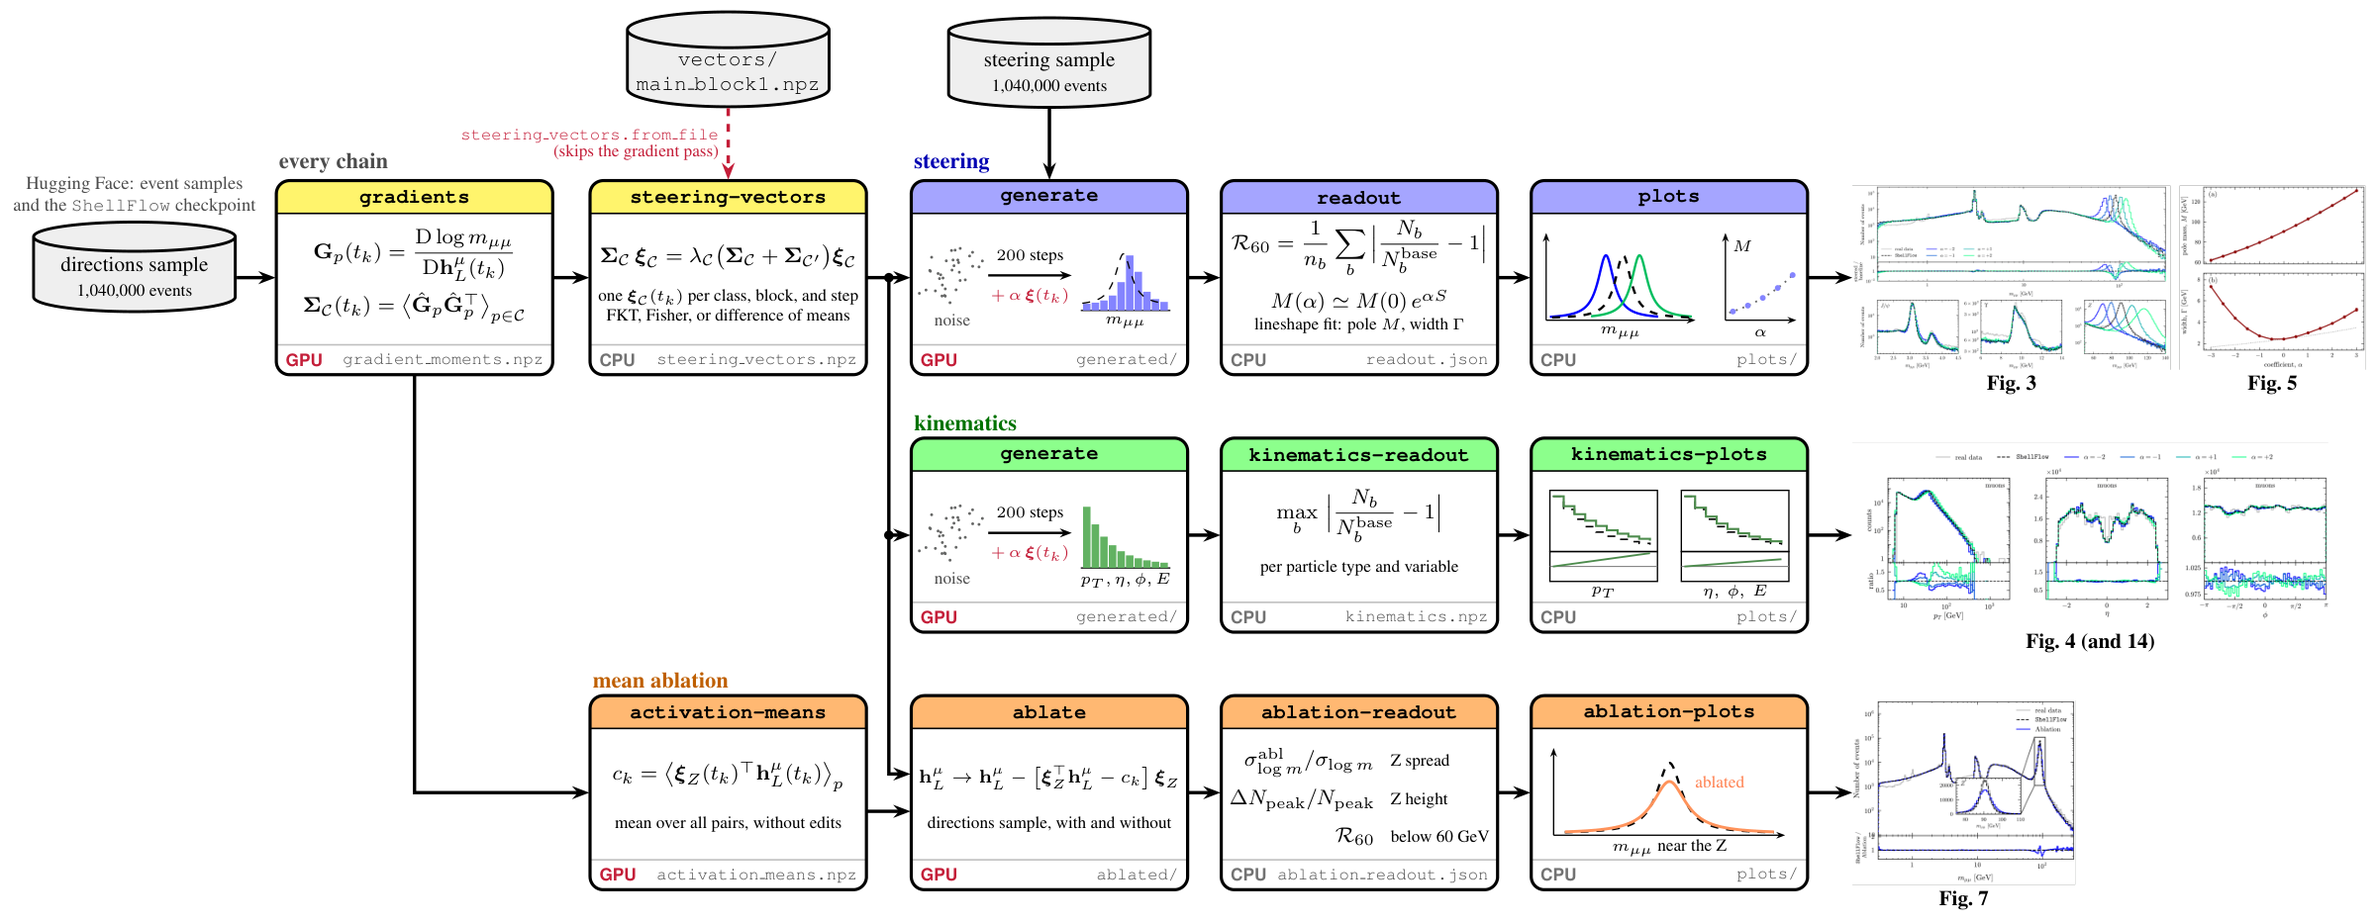
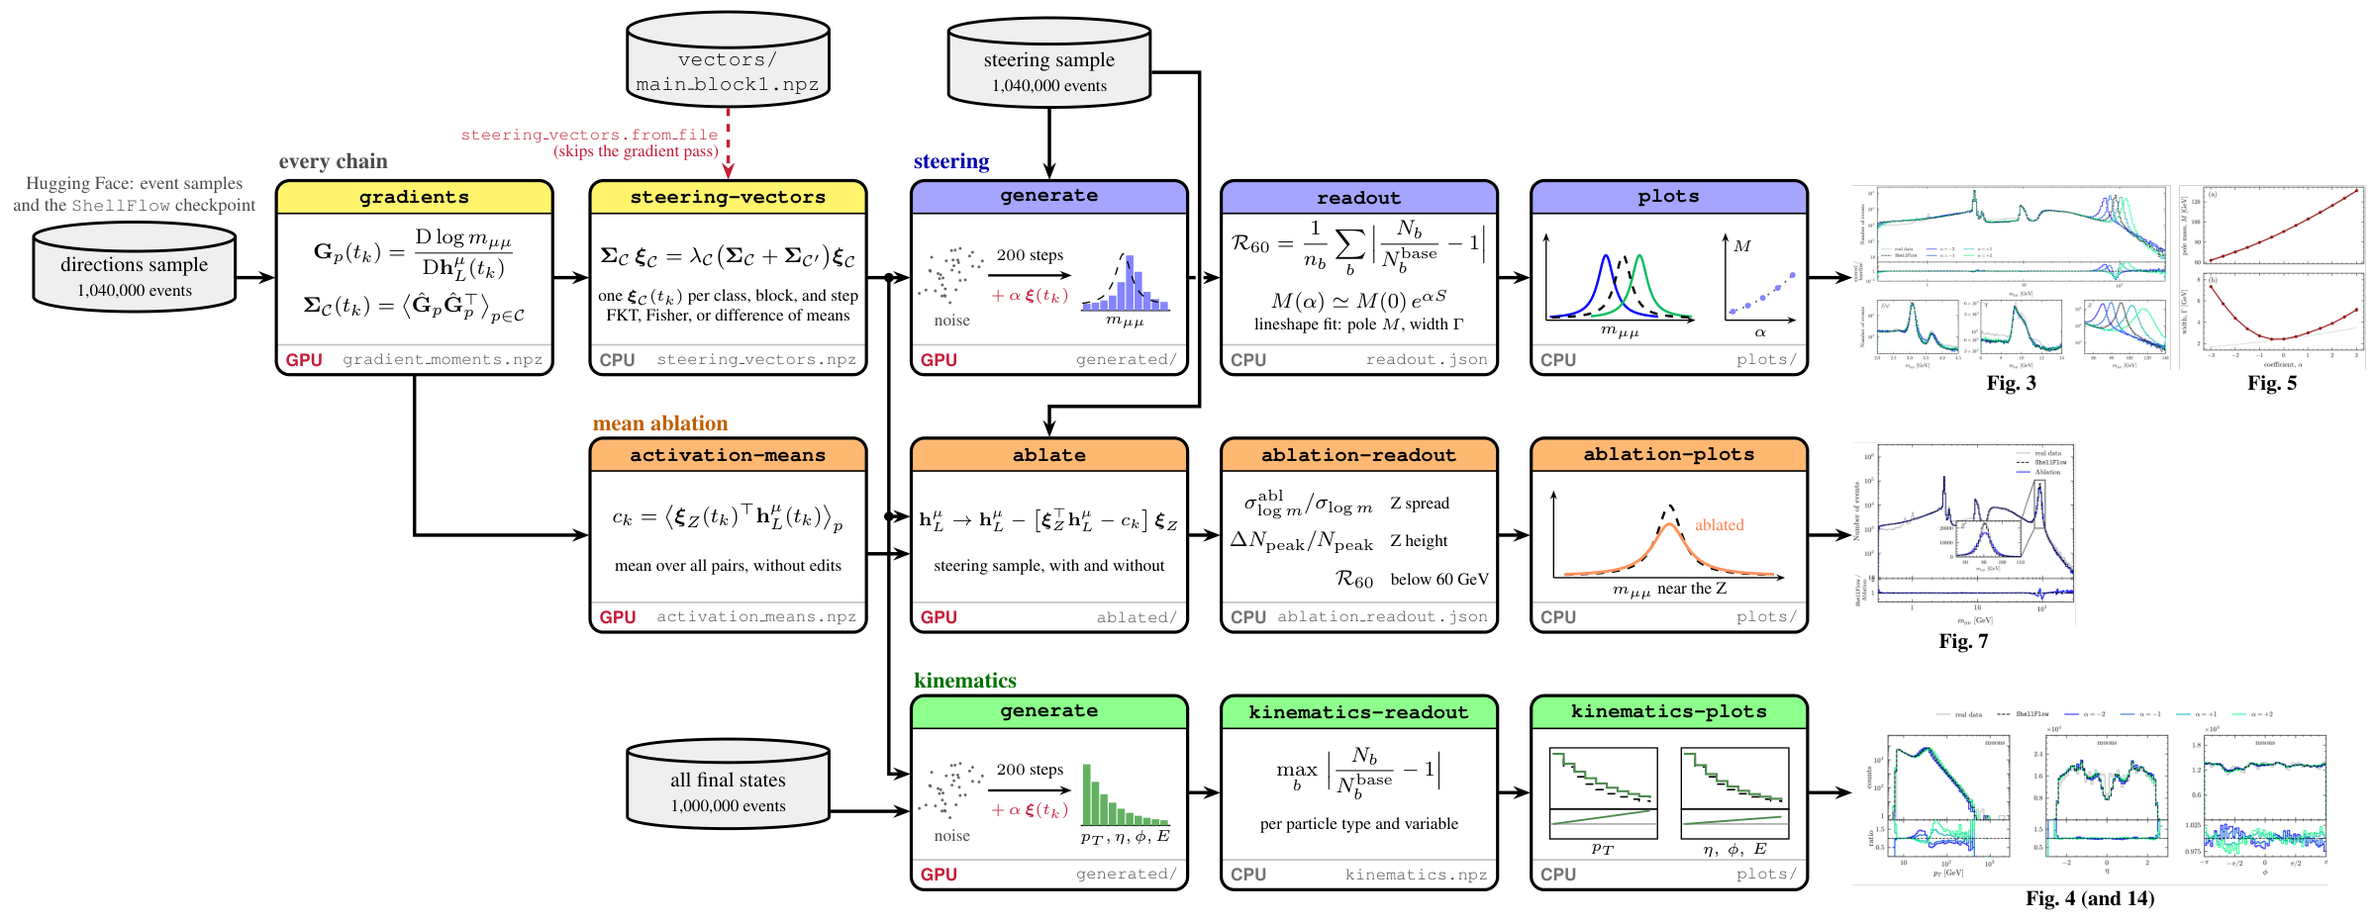
Mean ablation on the steering sample (#105)
steer ablate, ablation-readout, and ablation-plots now run on the steering sample, with the
kept pairs from the baseline of the first seed (ablated/kept.npz); xi_Z and c_k stay on the
directions sample. The option ablation.sample is dropped; ablation_z.yaml uses seeds
2041-2043. README (R_60 = 0.012), comments, and the pipeline figure follow.

diff --git a/src/shellsteer/cli.py b/src/shellsteer/cli.py
@@ -2,15 +2,17 @@
 
 A config runs one of three chains of stages (STAGES, `Config.chain`): the steering run (Sec. 5); the kinematics run
 (Figs. 4 and 14), whose steering sample holds events of every final state; or, with an `ablation` section, the mean
-ablation (Sec. 5.3). A run writes to <runs>/<config name>/ (README, "Run the full chain"). Each stage reads only the
-files of the stages it needs and stops, naming the missing file and the stage that writes it, if one is absent. A
-stage refuses to replace its own output unless --overwrite is given, and refuses to run on outputs that were made
-with other settings. The resolved config, overrides applied, goes to config.yaml in the run folder; the log to stdout.
+ablation (Sec. 5.3) of the steering sample, with xi and c_k (Eq. 25) from the directions sample. A run writes to
+<runs>/<config name>/ (README, "Run the full chain"). Each stage reads only the files of the stages it needs and
+stops, naming the missing file and the stage that writes it, if one is absent. A stage refuses to replace its own
+output unless --overwrite is given, and refuses to run on outputs that were made with other settings. The resolved
+config, overrides applied, goes to config.yaml in the run folder; the log to stdout.
 
 With steering_vectors.from_file, the vectors come from a file of an earlier `steer steering-vectors` (stages_of):
 `steer steering-vectors` checks the file against the config and copies it into the run folder, the steering and
-kinematics runs have no gradients stage, and in the ablation run `steer gradients` makes only the baseline and the kept pairs of the
-directions sample, which c_k needs. S (Eq. 21) then comes from the file, or the readout reports it as unavailable.
+kinematics runs have no gradients stage, and in the ablation run `steer gradients` makes only the baseline and the kept
+pairs of the directions sample, which c_k needs. S (Eq. 21) then comes from the file, or the readout reports it as
+unavailable.
 
 The readouts write JSON: a few numbers per seed, which a person can read and any language can load. The lineshape
 fit is a model of the Z (App. E) and runs only when the target is Z.
@@ -63,7 +65,7 @@ MOMENTS_FILE = "gradient_moments.npz"
 DIRECTIONS_KEPT_FILE = "directions_kept.npz"
 MEANS_FILE = "activation_means.npz"
 ABLATED_DIR = "ablated"
-ABLATED_KEPT_FILE = "ablated/kept.npz"   # the kept pairs of the steering sample when the ablation runs on it
+ABLATED_KEPT_FILE = "ablated/kept.npz"   # the kept pairs of the steering sample on the first seed's baseline
 ABLATION_READOUT_FILE = "ablation_readout.json"
 VECTORS_FILE = "steering_vectors.npz"
 GENERATED_DIR = "generated"
@@ -480,14 +482,6 @@ def run_plots(config: Config, run: Path, devices: Devices) -> None:
         log(stage, f"wrote {folder / name}")
 
 
-def ablation_kept_file(config: Config, run: Path) -> tuple[Path, str]:
-    """The kept pairs of the ablated sample and the stage that writes them: the directions sample's from `steer
-    gradients`, the steering sample's from `steer ablate` on the baseline of its first seed."""
-    if config.ablation.sample == "directions":
-        return run / DIRECTIONS_KEPT_FILE, "gradients"
-    return run / ABLATED_KEPT_FILE, "ablate"
-
-
 def run_activation_means(config: Config, run: Path, devices: Devices) -> None:
     """Mean of the residual stream on the pair's tokens over the kept pairs of the directions sample, the input of
     c_k (paper Eq. 25): one forward pass without edits with the noise of gradients.seed."""
@@ -520,7 +514,8 @@ def run_activation_means(config: Config, run: Path, devices: Devices) -> None:
 
 
 def run_ablate(config: Config, run: Path, devices: Devices) -> None:
-    """Baseline and mean-ablated generation (paper Eq. 24, c_k of Eq. 25) of ablation.sample for every seed."""
+    """Baseline and mean-ablated generation (paper Eq. 24) of the steering sample for every seed, with xi and c_k
+    (Eq. 25) from the directions sample."""
     stage = "ablate"
     ablation = config.ablation
     blocks = (None, ablation.block)                                    # None: the baseline
@@ -530,15 +525,10 @@ def run_ablate(config: Config, run: Path, devices: Devices) -> None:
     c = mean_projection(means, xi, ablation.block)
     log(stage, f"c_k from {int(np.sum(means['count'])):,} pairs: {c.min():+.4f} to {c.max():+.4f} over "
                f"{len(c)} steps")
-    entry = config.dataset(ablation.sample)
-    events = load_events(entry, ablation.sample, getattr(config.events, ablation.sample))
-    if ablation.sample == "directions":
-        kept_file = require(run / DIRECTIONS_KEPT_FILE, "gradients")
-        if not np.array_equal(events.event, load_kept(kept_file)[1]):
-            raise StageError(f"the directions sample holds other events than {kept_file}; rerun `steer gradients "
-                             f"--overwrite`")
+    entry = config.dataset("steering")
+    events = load_events(entry, "steering", config.events.steering)
     workers = start_workers(stage, config, devices)
-    log(stage, f"{len(events):,} events of the {ablation.sample} sample; {config.target} vector at "
+    log(stage, f"{len(events):,} events of the steering sample; {config.target} vector at "
                f"block {ablation.block}; seeds {list(ablation.seeds)}")
     edit = Ablation(xi=xi, mean=torch.from_numpy(c), block=ablation.block)
     sizes = dict(steps=config.sampler.steps, batch_size=config.sampler.batch_size, on_nan=config.sampler.on_nan)
@@ -548,7 +538,7 @@ def run_ablate(config: Config, run: Path, devices: Devices) -> None:
             generated = generate_pairs(workers, events, None if block is None else edit, seed=seed, **sizes)
             seconds = time.perf_counter() - start
             log(stage, f"seed {seed}, {'baseline' if block is None else f'block {block}'}: {generated.nans.text()}")
-            if ablation.sample == "steering" and seed == ablation.seeds[0] and block is None:
+            if seed == ablation.seeds[0] and block is None:
                 kept = select(generated.mass, events.priority, config.classes, config.events.keep)
                 save_kept(run / ABLATED_KEPT_FILE, kept, generated.event, {"seed": seed, "keep": config.events.keep,
                                                                             "sample": "steering"})
@@ -557,7 +547,7 @@ def run_ablate(config: Config, run: Path, devices: Devices) -> None:
             path = paths[(seed, block)]
             save_generated(path, generated, {
                 "block": block, "target": config.target, "method": config.steering_vectors.method, "seed": seed,
-                "steps": config.sampler.steps, "sample": ablation.sample, "steering vector file": VECTORS_FILE,
+                "steps": config.sampler.steps, "sample": "steering", "steering vector file": VECTORS_FILE,
                 "activation means file": MEANS_FILE, "c_k": c.tolist(), "batch_size": config.sampler.batch_size,
                 "device": devices_metadata(devices), "network": config.networks[config.network].model_dump(),
                 "dataset": entry.model_dump()}, required=ABLATION_METADATA_KEYS)
@@ -584,8 +574,8 @@ def run_ablation_readout(config: Config, run: Path, devices: Devices) -> None:
     and the deviation below readout.r60_max_mass, per seed and over seeds (metrics.py)."""
     stage = "ablation-readout"
     ablation, readout, classes = config.ablation, config.readout, config.classes
-    kept_file, kept_stage = ablation_kept_file(config, run)
-    kept, kept_event, _ = load_kept(require(kept_file, kept_stage))
+    kept_file = run / ABLATED_KEPT_FILE
+    kept, kept_event, _ = load_kept(require(kept_file, "ablate"))
     for seed in ablation.seeds:
         for block in (None, ablation.block):
             require(ablated_path(run, seed, block), "ablate")
@@ -620,7 +610,7 @@ def run_ablation_readout(config: Config, run: Path, devices: Devices) -> None:
     mean = {key: (np.mean(base_list, axis=0), np.mean(ablated_list, axis=0))
             for key, (base_list, ablated_list) in histograms.items()}
     result = {
-        "target": config.target, "block": ablation.block, "sample": ablation.sample, "seeds": list(ablation.seeds),
+        "target": config.target, "block": ablation.block, "sample": "steering", "seeds": list(ablation.seeds),
         "target window": list(window), "kept pairs file": kept_file.name,
         "spread ratio, mean over seeds": float(np.mean([r["spread of log m in the target window"]["ratio"]
                                                         for r in rows])),
@@ -642,10 +632,10 @@ def run_ablation_plots(config: Config, run: Path, devices: Devices) -> None:
     """Paper Fig. 7: the spectrum of the baseline, the mean ablation, and real data, counts averaged over seeds."""
     stage = "ablation-plots"
     ablation, readout = config.ablation, config.readout
-    kept_file, kept_stage = ablation_kept_file(config, run)
-    kept, kept_event, _ = load_kept(require(kept_file, kept_stage))
+    kept_file = run / ABLATED_KEPT_FILE
+    kept, kept_event, _ = load_kept(require(kept_file, "ablate"))
     pairs = [ablated_masses(config, run, seed, kept, kept_event, kept_file) for seed in ablation.seeds]
-    real = real_masses(config, ablation.sample, kept_event, kept_file, kept_stage)[kept != ""]
+    real = real_masses(config, "steering", kept_event, kept_file, "ablate")[kept != ""]
     log(stage, f"seeds {list(ablation.seeds)}: {', '.join(f'{len(b):,}' for b, _ in pairs)} pairs; real data of the "
                f"{len(real):,} kept pairs")
     settings = ablation.figure
@@ -774,8 +764,8 @@ STAGES = (
           run_activation_means, "mean residual stream of the kept pairs of the directions sample, for c_k "
                                 "(Eq. 25); GPU"),
     Stage("ablate", ("ablation",), ("steering-vectors", "activation-means"), (ABLATED_DIR,),
-          ("ablation.sample", "ablation.seeds"), True, run_ablate,
-          "baseline and mean-ablated generation (Eq. 24) of ablation.sample, every seed (Sec. 5.3); GPU"),
+          ("ablation.seeds",), True, run_ablate,
+          "baseline and mean-ablated generation (Eq. 24) of the steering sample, every seed (Sec. 5.3); GPU"),
     Stage("ablation-readout", ("ablation",), ("ablate",), (ABLATION_READOUT_FILE,),
           ("readout", "ablation.peak_range", "ablation.peak_bins"), False, run_ablation_readout,
           "spread and height of the target peak and the deviation below 60 GeV under the ablation (Sec. 5.3); CPU"),

diff --git a/docs/figures/pipeline.tex b/docs/figures/pipeline.tex
@@ -152,6 +152,7 @@
 \node[data] (dir)  at (\xa,\ya) {directions sample\\{\smf 1,040,000 events}};
 \node[data] (ship) at (\xc,2.75) {\texttt{vectors/}\\\texttt{main\_block1.npz}};
 \node[data] (ste)  at (\xd,2.75) {steering sample\\{\smf 1,040,000 events}};
+\node[data] (allfs) at (\xc,\yc) {all final states\\{\smf 1,000,000 events}};
 \node[anchor=south, align=center, black!70, font=\fontsize{7}{8.2}\selectfont] at (\xa,0.80)
   {Hugging Face: event samples\\and the \texttt{ShellFlow} checkpoint};
 
@@ -176,24 +177,24 @@
 \stage{pl}{\xf,\ya}{steer}{plots}{\mockspectrum}{c}{plots/}
 
 % ---- kinematics chain -------------------------------------------------------------------------------------------
-\stage{kgen}{\xd,\yb}{kin}{generate}{\noisetodata{0}}{g}{generated/}
-\stage{kro}{\xe,\yb}{kin}{kinematics-readout}{%
+\stage{kgen}{\xd,\yc}{kin}{generate}{\noisetodata{0}}{g}{generated/}
+\stage{kro}{\xe,\yc}{kin}{kinematics-readout}{%
   \node at (0,0.28) {$\displaystyle\max_{b}\,\Big|\frac{N_b}{N_b^{\mathrm{base}}}-1\Big|$};
   \node[sm] at (0,-0.42) {per particle type and variable};
 }{c}{kinematics.npz}
-\stage{kpl}{\xf,\yb}{kin}{kinematics-plots}{\mockkinematics}{c}{plots/}
+\stage{kpl}{\xf,\yc}{kin}{kinematics-plots}{\mockkinematics}{c}{plots/}
 
 % ---- mean-ablation chain ----------------------------------------------------------------------------------------
-\stage{am}{\xc,\yc}{abl}{activation-means}{%
+\stage{am}{\xc,\yb}{abl}{activation-means}{%
   \node at (0,0.24) {$c_k=\big\langle\bxi_Z(t_k)^{\top}\bh_L^{\mu}(t_k)\big\rangle_p$};
   \node[sm] at (0,-0.40) {mean over all pairs, without edits};
 }{g}{activation\_means.npz}
-\stage{ab}{\xd,\yc}{abl}{ablate}{%
+\stage{ab}{\xd,\yb}{abl}{ablate}{%
   % 7.2 pt: at the 8 pt of the other boxes the equation is as wide as the box
   \node[font=\fontsize{7.2}{8.6}\selectfont] at (0,0.22) {$\bh_L^{\mu}\to\bh_L^{\mu}-\big[\bxi_Z^{\top}\bh_L^{\mu}-c_k\big]\,\bxi_Z$};
-  \node[sm] at (0,-0.40) {directions sample, with and without};
+  \node[sm] at (0,-0.40) {steering sample, with and without};
 }{g}{ablated/}
-\stage{aro}{\xe,\yc}{abl}{ablation-readout}{%
+\stage{aro}{\xe,\yb}{abl}{ablation-readout}{%
   % one row per number of ablation_readout.json: the quantity, then what it measures
   \node at (0,-0.03) {\renewcommand{\arraystretch}{1.55}%
     \begin{tabular}{@{}r@{\hspace{6pt}}l@{}}
@@ -202,16 +203,16 @@
       $\mathcal{R}_{60}$ & {\smf below 60 GeV}
     \end{tabular}};
 }{c}{ablation\_readout.json}
-\stage{apl}{\xf,\yc}{abl}{ablation-plots}{\mockablation}{c}{plots/}
+\stage{apl}{\xf,\yb}{abl}{ablation-plots}{\mockablation}{c}{plots/}
 
 % ---- the paper figures ------------------------------------------------------------------------------------------
 \node[fig, anchor=west] (f3) at (\xg,\ya) {\includegraphics[height=2.45cm]{fig3_spectrum.png}};
 \node[fig, anchor=west] (f5) at ($(f3.east)+(0.12,0)$) {\includegraphics[height=2.45cm]{fig5_pole_width.png}};
 \node[figlabel] at (f3.south) {Fig.~3};
 \node[figlabel] at (f5.south) {Fig.~5};
-\node[fig, anchor=west] (f4) at (\xg,\yb) {\includegraphics[height=2.45cm]{fig4_kinematics.png}};
+\node[fig, anchor=west] (f4) at (\xg,\yc) {\includegraphics[height=2.45cm]{fig4_kinematics.png}};
 \node[figlabel] at (f4.south) {Fig.~4 (and 14)};
-\node[fig, anchor=west] (f7) at (\xg,\yc) {\includegraphics[height=2.45cm]{fig7_ablation.png}};
+\node[fig, anchor=west] (f7) at (\xg,\yb) {\includegraphics[height=2.45cm]{fig7_ablation.png}};
 \node[figlabel] at (f7.south) {Fig.~7};
 
 % ---- chain labels -----------------------------------------------------------------------------------------------
@@ -229,16 +230,22 @@
 \draw[flow] (pl) -- (f3);
 \draw[flow] (ste) -- (gen);
 
-\draw[flow] (\trunk,\ya) -- (\trunk,\yc+0.25) -- (ab.west |- 0,\yc+0.25);
-\draw[flow] (\trunk,\yb) -- (kgen.west);
+\draw[flow] (\trunk,\ya) -- (\trunk,\yc+0.25) -- (kgen.west |- 0,\yc+0.25);
+\draw[flow] (\trunk,\yb+0.25) -- (ab.west |- 0,\yb+0.25);
 \fill (\trunk,\ya) circle (1.8pt);
-\fill (\trunk,\yb) circle (1.8pt);
+\fill (\trunk,\yb+0.25) circle (1.8pt);
+\draw[flow] (allfs.east |- 0,\yc-0.25) -- (kgen.west |- 0,\yc-0.25);
+% the mean ablation generates the steering sample again, with and without the ablation; the line crosses the arrow
+% generate -> readout near its tail, with a white gap that shows the crossing
+\def\xcross{\xd+\boxw+0.16}
+\draw[white, line width=3pt] (\xcross,\ya+0.25) -- (\xcross,\ya-0.25);
+\draw[flow] (ste.east) -- (\xcross,2.75) -- (\xcross,\ya-1.725) -- (\xd,\ya-1.725) -- (ab.north);
 \draw[flow] (kgen) -- (kro);
 \draw[flow] (kro) -- (kpl);
 \draw[flow] (kpl) -- (f4);
 
-\draw[flow] (grad.south) -- (\xb,\yc) -- (am.west);
-\draw[flow] (am.east |- 0,\yc-0.25) -- (ab.west |- 0,\yc-0.25);
+\draw[flow] (grad.south) -- (\xb,\yb) -- (am.west);
+\draw[flow] (am.east |- 0,\yb-0.25) -- (ab.west |- 0,\yb-0.25);
 \draw[flow] (ab) -- (aro);
 \draw[flow] (aro) -- (apl);
 \draw[flow] (apl) -- (f7);

diff --git a/src/shellsteer/config.py b/src/shellsteer/config.py
@@ -7,7 +7,7 @@ A config runs one of three chains (cli.py), and `Config.chain` says which:
 
     steering:   steering, readout, lineshape, and plots; the steering sample holds muon pairs.
     kinematics: steering and kinematics; the steering sample holds every final state (events.steering_dataset).
-    ablation:   ablation and readout.
+    ablation:   ablation and readout; the steering sample holds muon pairs.
 
 Each chain needs its own sections and stops on the sections of the others.
 """
@@ -115,9 +115,9 @@ class AblationFigure(Section):
 
 
 class Ablation(Section):
-    """The mean ablation of paper Sec. 5.3: the target's steering vector at `block`, c_k from the directions sample."""
+    """The mean ablation of paper Sec. 5.3 (Eq. 24) of the steering sample: the target's steering vector at `block`,
+    xi and c_k (Eq. 25) from the directions sample."""
     block: int
-    sample: Literal["directions", "steering"]
     seeds: list[int]
     peak_range: list[float]          # GeV: the histogram of the peak height, and the bins of the inset of paper Fig. 7
     peak_bins: int
@@ -257,8 +257,8 @@ class Config(Section):
             if steps != "all" and (len(steps) != 2 or not 0 <= steps[0] <= steps[1] < self.sampler.steps):
                 raise ValueError(f"steering.steps: need 0 <= first <= last < {self.sampler.steps}, got {list(steps)}")
         if self.ablation is not None:
-            if self.ablation.sample == "steering" and self.dataset("steering").pair is None:
-                raise ValueError(f"ablation.sample: the steering sample {self.events.steering_dataset!r} has no "
+            if self.dataset("steering").pair is None:
+                raise ValueError(f"ablation: the steering sample {self.events.steering_dataset!r} has no "
                                  f"pairs, and the ablation edits the pair's tokens")
             if from_gradients and self.ablation.block not in self.gradients.blocks:
                 raise ValueError(f"ablation.block: block {self.ablation.block} is not in gradients.blocks")

diff --git a/src/shellsteer/steered_generation.py b/src/shellsteer/steered_generation.py
@@ -20,8 +20,7 @@ particle of every event. `save_generated_events` writes them to the same generat
 there is no kept.npz.
 
 The mean ablation (paper Sec. 5.3) is the edit `Ablation`; its c_k come from `activation_means.mean_projection`.
-It runs on the sample of the config's `ablation.sample` (the directions sample in the paper), so its baseline is
-generated again for that sample and each seed:
+It runs on the steering sample, so its baseline is generated again for each seed:
 
     <run>/ablated/seed_<seed>/block_<L>.npz             from ablated_path(run, seed, block)
     <run>/ablated/seed_<seed>/baseline.npz              from ablated_path(run, seed, None)

diff --git a/README.md b/README.md
@@ -129,12 +129,13 @@ Its `generate` stage keeps every particle of each event and writes no `generated
 | `kinematics-plots` | Draws the kinematics of the edited muons (Fig. 4) and of every other particle type (Fig. 14) | `plots/kinematics.pdf`, `plots/all_particles.pdf` | CPU |
 
 The mean-ablation chain (`ablation_z.yaml`) runs `gradients` and `steering-vectors` as above, then four stages of its own.
+It ablates the steering sample; $\boldsymbol{\xi}_Z$ and the mean of Eq. 25 come from the directions sample.
 With `steering_vectors.from_file`, its `gradients` stage writes only `directions_kept.npz`, because the mean of Eq. 25 needs the kept pairs.
 
 | Stage | What it does | Writes | Device |
 |---|---|---|---|
 | `activation-means` | Sums the residual stream of the kept pairs per class, for the mean of Eq. 25 | `activation_means.npz` | GPU |
-| `ablate` | Generates `ablation.sample` without edits and with the mean ablation (Eq. 24), for each seed | `ablated/seed_<seed>/baseline.npz`, `ablated/seed_<seed>/block_<L>.npz` | GPU |
+| `ablate` | Generates the steering sample without edits and with the mean ablation (Eq. 24), for each seed, and keeps 1,000,000 pairs on the baseline of the first seed | `ablated/seed_<seed>/baseline.npz`, `ablated/seed_<seed>/block_<L>.npz`, `ablated/kept.npz` | GPU |
 | `ablation-readout` | Computes the spread and height of the target peak and the deviation below 60 GeV | `ablation_readout.json` | CPU |
 | `ablation-plots` | Draws the baseline, the mean ablation, and real data (Fig. 7) | `plots/ablation.pdf` | CPU |
 
@@ -248,7 +249,7 @@ At $\alpha = -2$ it is 0.112, and at $\alpha = +2$ it is 0.071.
 
 ### The ablation broadens the Z peak
 
-The mean ablation along $\boldsymbol{\xi}_Z$ at block 1 gives a Z peak about 18% broader, and the spectrum below 60 GeV stays within the sampling noise ($\mathcal{R}_{60} = 0.014$).
+The mean ablation along $\boldsymbol{\xi}_Z$ at block 1 gives a Z peak about 18% broader, and the spectrum below 60 GeV stays within the sampling noise ($\mathcal{R}_{60} = 0.012$).
 The same ablation along random directions broadens the Z peak by 1 to 4%.
 
 <p align="center">
